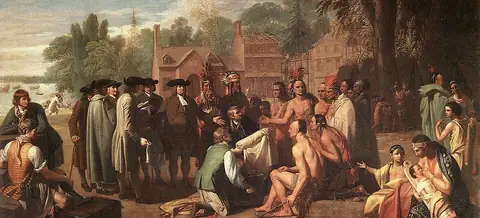
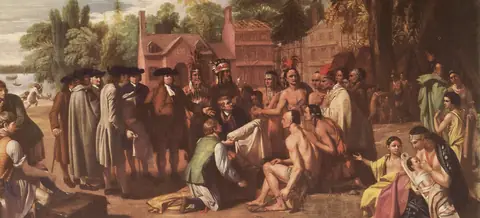
Derpy Conquest: wigs as hanging ringlets, fuller long hair, sharper scene paintings
Full-bottomed and powdered wigs are painted as ropes of curls wound in
a spiral, lit toward the light and dark between the locks; dark hair
keeps warm brown lights instead of going grey. Long hair falls fuller
over the near shoulder.

Six backdrops replaced with sharper public-domain paintings (1600 px,
graded like the rest): the tavern (Teniers, Tavern Scene with a Smoker),
the docks (Vernet, The Port of Marseille, 1754), the assembly (Hickel,
The House of Commons 1793-94), the apothecary (Longhi), the council fire
(West, Penn's Treaty, a sharper copy) and the village (Paul Kane, Indian
Encampment on Lake Huron) in place of John White's watercolour.
Credits updated.

Claude-Session: https://claude.ai/code/session_01CBUcrnBX9WVyHWuWpshPGS

diff --git a/src/conquest/client/avatar/Hair.ts b/src/conquest/client/avatar/Hair.ts
@@ -144,13 +144,16 @@ function edgePoints(pts: Pt[], count: number, br: Brush): Pt[] {
 
 /** The tones of a head of hair: its shadow, body, light and shine. */
 function tones(color: string) {
-  const pale = lum(color) > 0.6;
+  const L = lum(color);
+  const pale = L > 0.6;
+  // Dark hair shines a warm brown, not grey: its lights stay near its own
+  // colour; fair hair and powder go nearly white.
   return {
     deep: shade(color, pale ? 0.62 : 0.72),
-    dark: shade(color, pale ? 0.4 : 0.48),
+    dark: shade(color, pale ? 0.4 : 0.45),
     mid: color,
-    lit: light(color, pale ? 0.3 : 0.36),
-    shine: light(color, pale ? 0.55 : 0.6),
+    lit: mix(color, "#e8c89a", 0.12 + L * 0.35),
+    shine: mix(color, "#f6e6c8", 0.22 + L * 0.45),
   };
 }
 
@@ -282,9 +285,9 @@ function mass(pts: Pt[], color: string, s: Sitting, o: MassOpts = {}): string {
 }
 
 /**
- * A mass of curls, as a wig was painted: dark between the locks, each curl
- * a round coil lit on its upper side with a bright stroke where the light
- * catches it, brighter toward the light.
+ * A mass of curls, as a wig was painted: ringlets hanging side by side,
+ * dark in the gaps between them, each turn of a ringlet lit on its upper
+ * side, brighter toward the light.
  */
 function curly(
   pts: Pt[],
@@ -302,62 +305,89 @@ function curly(
   const sy = o.sheen?.[1] ?? y0 + (y1 - y0) * 0.2;
   const R = Math.max(x1 - x0, y1 - y0);
   const full = s.detail === "full";
-  // Curls hang in locks: columns of round curls, a little out of line.
-  const blobs: Pt[] = [];
-  const col = r0 * 1.5;
-  for (let x = x0 + col * 0.5; x < x1; x += col) {
-    const shift = br.range(0, r0 * 1.2);
-    for (let y = y0 + shift; y < y1; y += r0 * 1.3) {
-      const p: Pt = [x + br.range(-r0 * 0.3, r0 * 0.3), y + br.range(-1, 1)];
-      if (inside(p, pts)) blobs.push(p);
-    }
-  }
-  blobs.sort((a, b) => a[1] - b[1]);
   const grad = (k: string, hi: string, mid: string, lo: string) =>
-    `<radialGradient id="${id}${k}" cx="0.36" cy="0.3" r="0.72"><stop offset="0" stop-color="${hi}"/><stop offset="0.5" stop-color="${mid}"/><stop offset="0.9" stop-color="${lo}"/><stop offset="1" stop-color="${lo}" stop-opacity="0.6"/></radialGradient>`;
+    `<radialGradient id="${id}${k}" cx="0.4" cy="0.3" r="0.75"><stop offset="0" stop-color="${hi}"/><stop offset="0.55" stop-color="${mid}"/><stop offset="1" stop-color="${lo}"/></radialGradient>`;
   const parts: string[] = [
     `<defs><clipPath id="${id}c">${path(d, "")}</clipPath>
 ${grad("a", T.shine, T.lit, T.dark)}${grad("b", T.lit, T.mid, T.deep)}${grad("c", T.mid, T.dark, T.deep)}</defs>`,
-    path(d, `fill="${T.deep}"`),
+    `<g filter="url(#soft1)">${path(d, `fill="${T.dark}"`)}</g>`,
   ];
-  const inner: string[] = [];
+  const locks: string[] = [];
   const lines: string[] = [];
-  for (const [x, y] of blobs) {
-    const r = r0 * br.range(0.78, 1.15);
-    const near = Math.max(0, 1 - Math.hypot(x - sx, y - sy) / (R * 0.6));
-    const g = near > 0.55 ? "a" : near > 0.2 ? "b" : "c";
-    const rot = br.range(-30, 30);
-    inner.push(
-      ell(
-        x,
+  // Ringlets: ropes of hair hanging side by side, each wound in a spiral
+  // whose turns catch the light; dark in the gaps between them.
+  const col = r0 * 1.05;
+  let ci = 0;
+  for (
+    let x = x0 + col * 0.3;
+    x < x1 + col * 0.3;
+    x += col * br.range(0.85, 1.15), ci++
+  ) {
+    const sway = br.range(-0.25, 0.25);
+    const phase = br.range(0, 6);
+    // A column may be cut in two by the face: each run inside is a rope.
+    const ropes: Pt[][] = [[]];
+    for (let y = y0 - r0; y < y1 + r0; y += r0 * 0.5) {
+      const k = (y - y0) / r0;
+      const p: Pt = [
+        x + Math.sin(k * 0.9 + phase) * r0 * 0.2 + sway * k * 2,
         y,
-        r * 0.95,
-        r * br.range(1.05, 1.3),
-        `fill="url(#${id}${g})"`,
-        rot * 0.5,
-      ),
-    );
-    if (full || near > 0.3) {
-      // The light caught on the coil, and the dark turn beneath it.
-      lines.push(
-        path(
-          `M${n(x - r * 0.75)} ${n(y + r * 0.05)}a${n(r * 0.75)} ${n(r * 0.62)} 0 0 1 ${n(r * 1.2)} ${n(-r * 0.45)}`,
-          `fill="none" stroke="${near > 0.4 ? T.shine : T.lit}" stroke-width="${n(r * 0.22)}" stroke-linecap="round" opacity="${op(0.35 + near * 0.5)}"`,
-        ),
-      );
-      if (full)
-        lines.push(
-          path(
-            `M${n(x - r * 0.55)} ${n(y + r * 0.5)}q${n(r * 0.6)} ${n(r * 0.45)} ${n(r * 1.2)} ${n(-r * 0.1)}`,
-            `fill="none" stroke="${T.deep}" stroke-width="${n(r * 0.18)}" stroke-linecap="round" opacity="0.55"`,
-          ),
+      ];
+      if (inside(p, pts)) ropes[ropes.length - 1].push(p);
+      else if (ropes[ropes.length - 1].length) ropes.push([]);
+    }
+    for (const rope of ropes) {
+      if (rope.length < 2) continue;
+      const w = r0 * br.range(1.0, 1.3);
+      // In short lengths, each lit by how near it hangs to the light.
+      for (let a = 0; a < rope.length - 1; a += 3) {
+        const seg = rope.slice(a, a + 5);
+        if (seg.length < 2) break;
+        const mid = seg[Math.floor(seg.length / 2)];
+        const near = Math.max(
+          0,
+          1 - Math.hypot(mid[0] - sx, mid[1] - sy) / (R * 0.75),
         );
+        const g = near > 0.45 ? "a" : near > 0.15 ? "b" : "c";
+        locks.push(stroke(seg, w, `fill="url(#${id}${g})"`, [0.7, 0.7]));
+      }
+      // The turns of the spiral, down the rope, catching the light here and
+      // there.
+      const turnH = r0 * br.range(0.85, 1.15);
+      for (let t = 0; t < rope.length - 1; t++) {
+        const [ax, ay] = rope[t];
+        for (
+          let yy = ay;
+          yy < rope[t + 1][1];
+          yy += turnH * br.range(0.8, 1.2)
+        ) {
+          const nearT = Math.max(
+            0,
+            1 - Math.hypot(ax - sx, yy - sy) / (R * 0.75),
+          );
+          if ((!full && nearT < 0.25) || br.next() < 0.25) continue;
+          lines.push(
+            path(
+              `M${n(ax - w * 0.42)} ${n(yy + turnH * 0.25)}Q${n(ax - w * 0.05)} ${n(yy - turnH * 0.45)} ${n(ax + w * 0.42)} ${n(yy - turnH * 0.05)}`,
+              `fill="none" stroke="${nearT > 0.4 ? T.shine : T.lit}" stroke-width="${n(r0 * 0.15)}" stroke-linecap="round" opacity="${op(0.25 + nearT * 0.55)}"`,
+            ),
+          );
+          if (full)
+            lines.push(
+              path(
+                `M${n(ax - w * 0.45)} ${n(yy + turnH * 0.55)}Q${n(ax + w * 0.05)} ${n(yy + turnH * 0.2)} ${n(ax + w * 0.45)} ${n(yy + turnH * 0.45)}`,
+                `fill="none" stroke="${T.deep}" stroke-width="${n(r0 * 0.12)}" stroke-linecap="round" opacity="0.45"`,
+              ),
+            );
+        }
+      }
     }
   }
-  inner.push(
-    `<g filter="url(#soft4)">${ell(sx, sy, (x1 - x0) * 0.25, (y1 - y0) * 0.12, `fill="${T.lit}" opacity="0.25"`)}</g>`,
+  const turns = locks;
+  const shine = `<g filter="url(#soft4)">${ell(sx, sy, (x1 - x0) * 0.24, (y1 - y0) * 0.1, `fill="${T.lit}" opacity="0.28"`)}</g>`;
+  parts.push(
+    `<g clip-path="url(#${id}c)"><g filter="url(#soft06)">${turns.join("")}</g>${lines.join("")}${shine}</g>`,
   );
-  parts.push(`<g>${inner.join("")}${lines.join("")}</g>`);
   return `<g filter="url(#brushHair)">${parts.join("")}</g>`;
 }
 
@@ -657,14 +687,16 @@ function style(h: Head, s: Sitting, sk: SkinPalette): Hair {
             [m.Tf[0] + 2, h.cy - B * 0.3],
           ]
         : [m.Tn, m.Hn, m.Hc, m.Hf, m.Tf];
+      const fall = key === "cavalier" ? 1 : 0.6;
       pts.push(
-        ...arc(h, 7, -0.25, -PI - 0.85),
-        [h.neckN - 12, low - 8],
-        [h.neckN + 2, low + 2],
-        [h.neckN + 16, low - 8],
-        [h.cx - A * 0.98, h.cy + B * 0.95],
-        [h.cx - A * 1.06, h.cy + B * 0.3],
-        [h.cx - A * 1.04, h.cy - B * 0.15],
+        ...arc(h, 7 + fall * 6, -0.25, -PI - 0.85),
+        [h.cx - A * (1.2 + fall * 0.15), h.cy + B * 0.5],
+        [h.cx - A * (1.2 + fall * 0.18), low - 12],
+        [h.neckN - 10, low + 2],
+        [h.neckN + 14 + fall * 8, low - 6],
+        [h.cx - A * 0.9, h.cy + B * 1.0],
+        [h.cx - A * 1.0, h.cy + B * 0.3],
+        [h.cx - A * 1.0, h.cy - B * 0.15],
       );
       return {
         back: farFall(low, 8, shade(c, 0.25), { wave }),
@@ -746,9 +778,9 @@ function style(h: Head, s: Sitting, sk: SkinPalette): Hair {
         [h.cx + A * 0.88, h.cy - B * 0.1],
       ];
       return {
-        back: curly(far, shade(c, 0.28), s, { r: 8 }),
+        back: curly(far, shade(c, 0.28), s, { r: 11 }),
         front: curly(pts, c, s, {
-          r: 8,
+          r: 11,
           sheen: [h.cx - A * 0.5, top + B * 0.2],
         }),
       };

diff --git a/src/conquest/client/Credits.ts b/src/conquest/client/Credits.ts
@@ -90,11 +90,11 @@ export const CREDITS: Credit[] = [
   // ===== r9 gameplay (Agent G): the paintings behind scenes, cropped and toned =====
   {
     what: "Picture",
-    title: "Customers Conversing in a Tavern (1671): the tavern",
-    author: "Adriaen van Ostade (photograph by Hiart)",
-    license: "Public domain (photograph CC0)",
+    title: "Tavern Scene with a Smoker Holding a Crock (c.1650): the tavern",
+    author: "David Teniers the Younger",
+    license: "Public domain",
     source:
-      "https://commons.wikimedia.org/wiki/File:Customers_Conversing_in_a_Tavern_by_Adriaen_van_Ostade,_1671,_oil_on_panel.jpg",
+      "https://commons.wikimedia.org/wiki/File:David_Teniers_the_Younger_-_Tavern_scene_with_a_smoker_holding_a_crock.jpg",
   },
   {
     what: "Picture",
@@ -114,11 +114,10 @@ export const CREDITS: Credit[] = [
   },
   {
     what: "Picture",
-    title: "The Harbour of Amsterdam (1697): the docks",
-    author: "Ludolf Backhuysen",
+    title: "The Port of Marseille (1754): the docks",
+    author: "Claude-Joseph Vernet",
     license: "Public domain",
-    source:
-      "https://commons.wikimedia.org/wiki/File:Ludolf_Backhuysen_-_Der_Seehafen_von_Amsterdam_-_1041_-_Bavarian_State_Painting_Collections.jpg",
+    source: "https://commons.wikimedia.org/wiki/File:Vernet-marseille-1754.jpg",
   },
   {
     what: "Picture",
@@ -146,26 +145,25 @@ export const CREDITS: Credit[] = [
   },
   {
     what: "Picture",
-    title: "The House of Commons in Session (c.1709): the assembly",
-    author: "Peter Tillemans",
+    title: "The House of Commons, 1793-94: the assembly",
+    author: "Karl Anton Hickel",
     license: "Public domain",
-    source: "https://commons.wikimedia.org/wiki/File:Commons_In_Session.jpg",
+    source:
+      "https://commons.wikimedia.org/wiki/File:The_House_of_Commons_1793-94_by_Karl_Anton_Hickel.jpg",
   },
   {
     what: "Picture",
-    title: "The Treaty of Penn with the Indians (1771-72): the council fire",
+    title: "Penn's Treaty with the Indians (1771-72): the council fire",
     author: "Benjamin West",
     license: "Public domain",
-    source:
-      "https://commons.wikimedia.org/wiki/File:Benjamin_West_-_The_Treaty_of_Penn_with_the_Indians_-_WGA25555.jpg",
+    source: "https://commons.wikimedia.org/wiki/File:Benjamin_West_003.jpg",
   },
   {
     what: "Picture",
-    title: "The town of Secoton (c.1585): the village",
-    author: "John White (watercolour)",
+    title: "Indian Encampment on Lake Huron (c.1845): the village",
+    author: "Paul Kane",
     license: "Public domain",
-    source:
-      "https://commons.wikimedia.org/wiki/File:John_White_-_The_town_of_Secoton,_1906,0509.1.7.jpg",
+    source: "https://commons.wikimedia.org/wiki/File:Kane_Lake_Huron_Oil.jpg",
   },
   {
     what: "Picture",
@@ -219,8 +217,7 @@ export const CREDITS: Credit[] = [
     title: "The Apothecary (c.1752): the apothecary",
     author: "Pietro Longhi",
     license: "Public domain",
-    source:
-      "https://commons.wikimedia.org/wiki/File:Pietro_Longhi_-_The_Apothecary_-_WGA13411.jpg",
+    source: "https://commons.wikimedia.org/wiki/File:Pietro_Longhi_012.jpg",
   },
   {
     what: "Picture",

diff --git a/src/conquest/client/avatar/Face.ts b/src/conquest/client/avatar/Face.ts
@@ -52,7 +52,7 @@ export function skinPalette(s: Sitting): SkinPalette {
   const lw = lum(swatch);
   const base = mix(
     swatch,
-    "#c4803e",
+    "#c08a5a",
     lw > 0.78 ? 0.32 : lw > 0.7 ? 0.26 : 0.12,
   );
   const L = lum(base);
@@ -297,9 +297,9 @@ export function paintFace(h: Head, s: Sitting, sk: SkinPalette): string {
     ell(
       bx,
       by - cheekLift,
-      h.a * 0.34,
-      h.b * 0.2,
-      fillOp(sk.blush, Math.min(0.8, 0.5 * ruddy * (s.female ? 1.2 : 1))),
+      h.a * 0.42,
+      h.b * 0.26,
+      fillOp(sk.blush, Math.min(0.8, 0.34 * ruddy * (s.female ? 1.2 : 1))),
     ),
   );
   const [fx, fy] = P(0.62, 0.16);
@@ -309,7 +309,7 @@ export function paintFace(h: Head, s: Sitting, sk: SkinPalette): string {
       fy - cheekLift,
       h.a * 0.18,
       h.b * 0.17,
-      fillOp(sk.blush, 0.4 * ruddy),
+      fillOp(sk.blush, 0.28 * ruddy),
     ),
   );
   zones.push(
@@ -1631,7 +1631,7 @@ function paintMarks(h: Head, s: Sitting, sk: SkinPalette): string {
           [h.cx + h.a * 1.2, y + h.eyeH * 1.7],
           [h.cx - h.a * 1.2, y + h.eyeH * 1.9],
         ]),
-        `fill="#a3271c" opacity="0.55" style="mix-blend-mode:multiply"`,
+        `fill="#a3271c" opacity="0.42" style="mix-blend-mode:multiply"`,
       )}</g>`,
     );
   }

diff --git a/src/conquest/client/SceneArt.ts b/src/conquest/client/SceneArt.ts
@@ -1,8 +1,8 @@
 // The painted backdrops of scenes: where something happens (a tavern by
-// Ostade, a church by de Witte, a harbour by Backhuysen, a road by Hobbema,
-// the council fire by Benjamin West...), and small versions of each for the
-// tiles of a province's places. The paintings and who painted them are
-// listed in Credits.ts.
+// Teniers, a church by de Witte, the quays of Marseille by Vernet, a road by
+// Hobbema, the council fire by Benjamin West, a lakeside village by Paul
+// Kane...), and small versions of each for the tiles of a province's
+// places. The paintings and who painted them are listed in Credits.ts.
 
 import type { SoundKind } from "./Sound";
 
